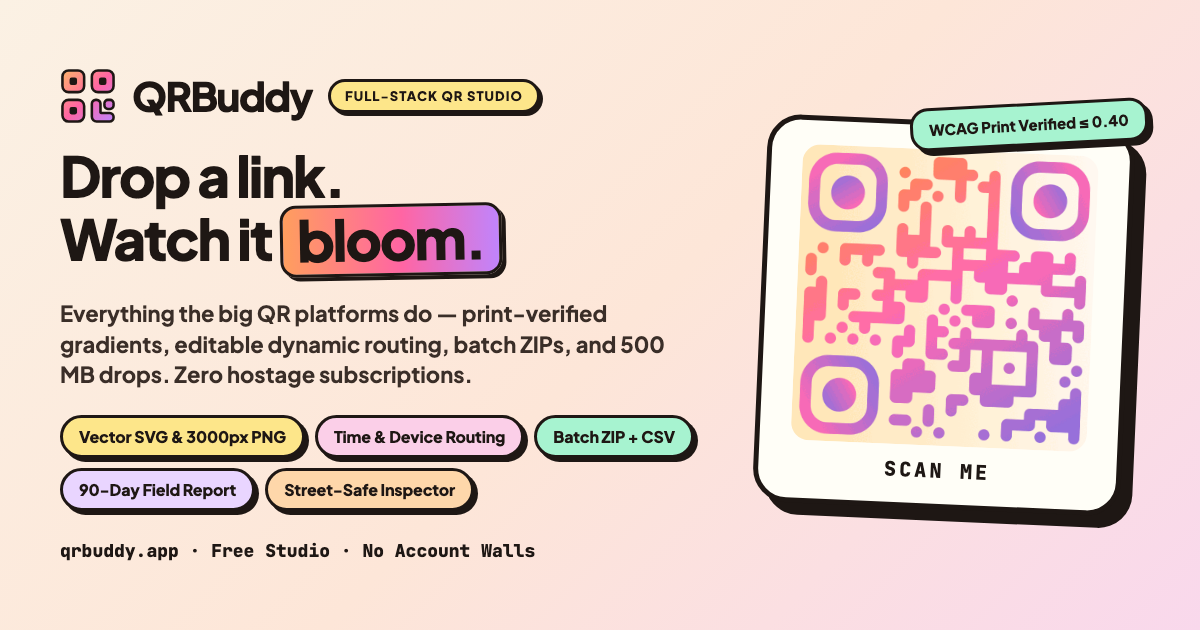
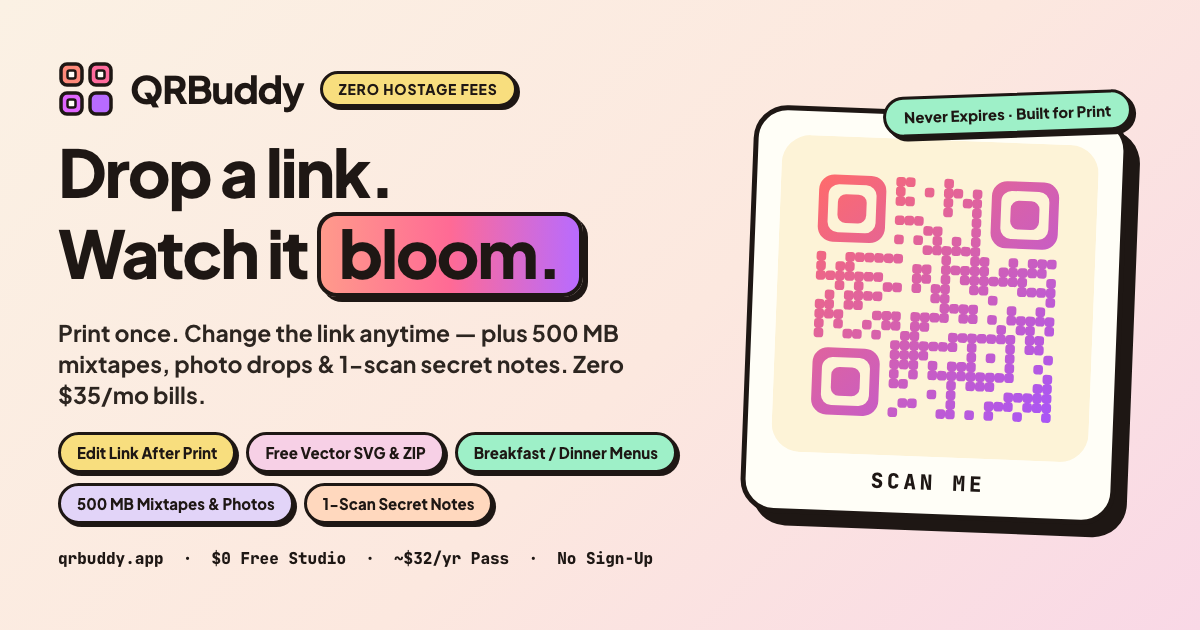
style: 💅 polish compare subtitle and refresh og-card.png

diff --git a/routes/compare.tsx b/routes/compare.tsx
@@ -152,7 +152,7 @@ export default function ComparePage({ data }: PageProps<PageData>) {
         faqTitle="Questions From Switchers & Print Shops"
         valueCards={VALUE_CARDS}
         comparisonTitle="QRBuddy vs. The Hostage QR Giants"
-        comparisonSubtitle="Why pay $420/year just to redirect a URL?"
+        comparisonSubtitle="Print once. Keep every link alive without a $420/year ransom."
         qrbuddyFirst
         comparisonColumns={{
           feature: "Capability",
